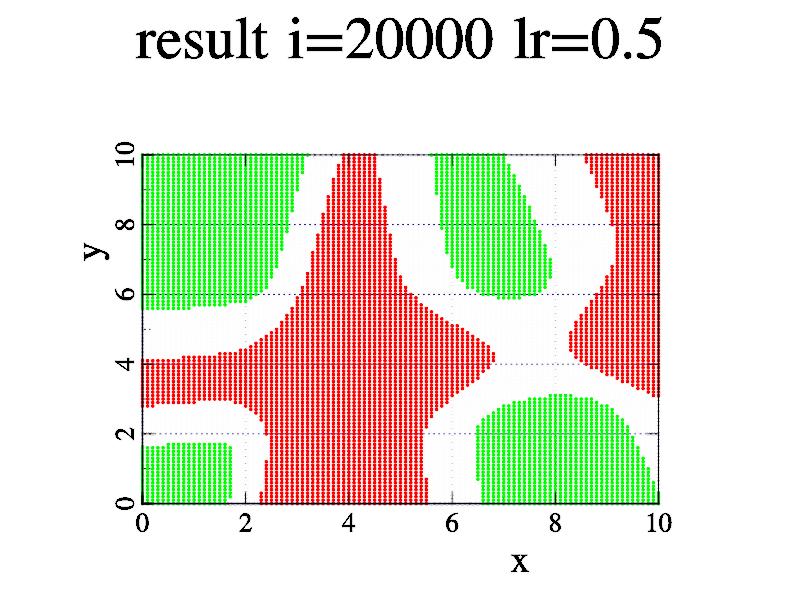
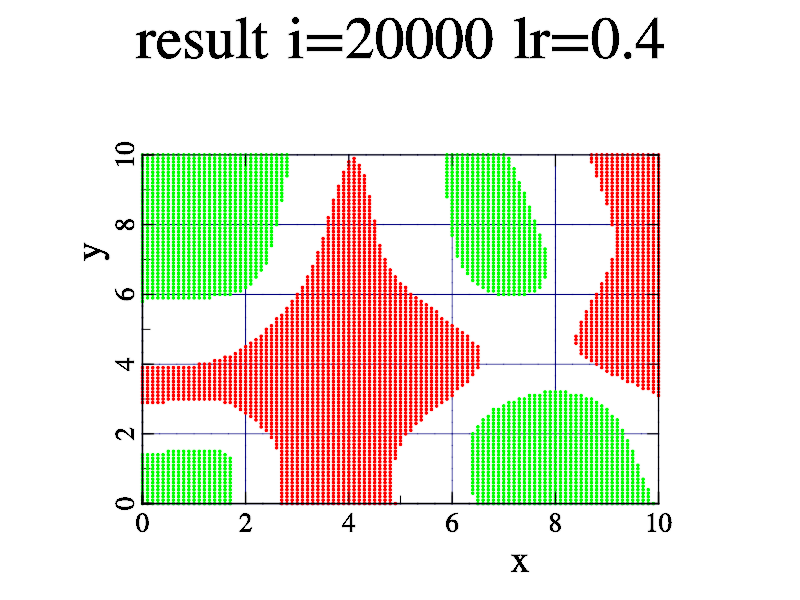
batter result plot

diff --git a/src/neural.cpp b/src/neural.cpp
@@ -24,6 +24,8 @@ nn::nn(){
 	odel = zeros(hidden_num+1, output_num); //output delta
 	od = zeros(output_num);
 	hd = zeros(hidden_num+1);
+	hdels = zeros(input_num+1, hidden_num+1); //hidden delta
+	odels = zeros(hidden_num+1, output_num); //output delta
 	ods = zeros(output_num);
 	hds = zeros(hidden_num+1);
 	learning_rate = dlearning_rate;
@@ -81,10 +83,10 @@ void nn::test(){
 }
 
 void nn::clear_dels(){
-	hdels = zeros(input_num+1, hidden_num+1); //hidden delta
-	odels = zeros(hidden_num+1, output_num); //output delta
-	ods = zeros(output_num);
-	hds = zeros(hidden_num+1);
+	hdels.zeros();
+	odels.zeros();
+	ods.zeros();
+	hds.zeros();
 }
 
 void nn::cal_del(){
@@ -97,7 +99,7 @@ void nn::cal_del(){
 		}
 	}
 	//hidden to input
-	hd = zeros(hidden_num+1);
+	hd.zeros();
 	for(int i=0; i<hidden_num+1; ++i){
 		for(int k=0; k<output_num; ++k){
 			hd(i) += od(k)*output(i,k);
@@ -133,7 +135,7 @@ void nn::showsd(){
 void nn::train(int iteration){
 	for(int j=0; j<iteration; ++j){
 		clear_dels();
-		for(int i=0; i<_s.size(); i++){
+		for(int i=0; i<(int)_s.size(); i++){
 			//set input
 			input.at(0) = _s[i].feature[0]/10;
 			input.at(1) = _s[i].feature[1]/10;

diff --git a/src/main.cpp b/src/main.cpp
@@ -81,7 +81,6 @@ double drawResult(nn& n,string title)
 				label = 1;
 			else
 				label = 2;
-			flag[0] = 'w';
 			switch(label){
 				case 0:
 					flag[0] = 'r';
@@ -90,7 +89,8 @@ double drawResult(nn& n,string title)
 					flag[0] = 'g';
 					break;
 			}
-			gr.Plot(xdat, ydat,flag);
+			if (label != 2)
+				gr.Plot(xdat, ydat,flag);
 		}
 	}
 	gr.WritePNG("r.png");
@@ -112,8 +112,7 @@ double drawError(nn& n, int iteration, string title)
 	char flag[10] = "b. ";
 
 	mglData	xdat(1), ydat(1);
-	int label;
-	for(int i=0; i<n.e.size(); ++i){
+	for(int i=0; i<(int)n.e.size(); ++i){
 		xdat.a[0] = i * iteration/n.e.size();
 		ydat.a[0] = n.e[i];
 		gr.Plot(xdat, ydat,flag);
